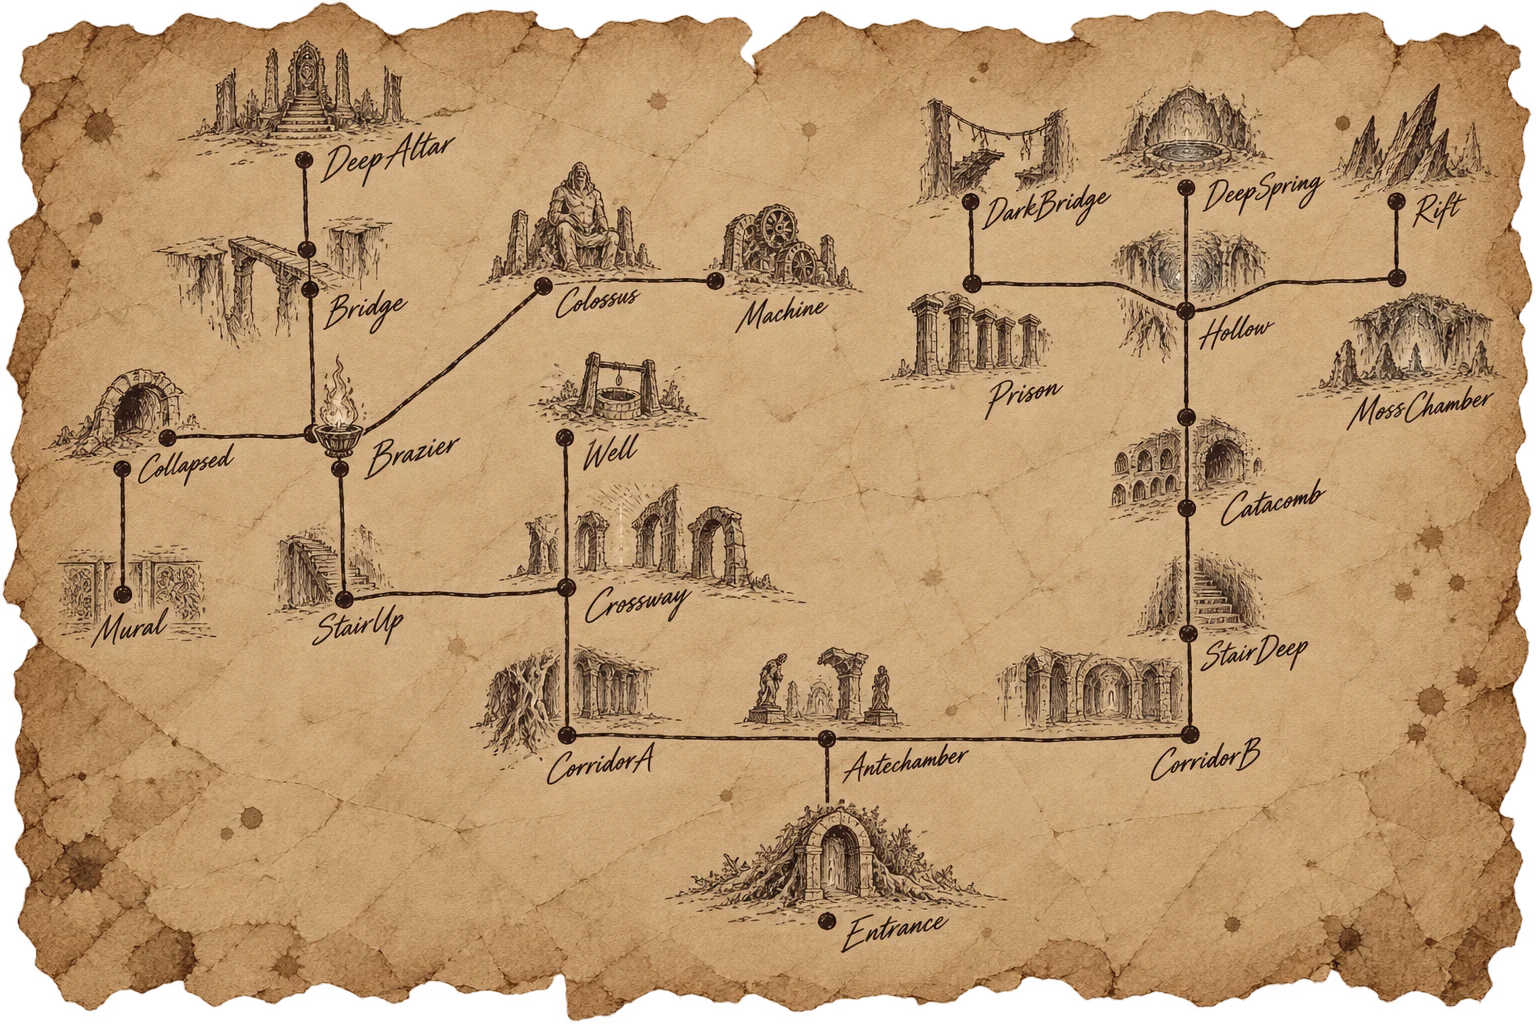
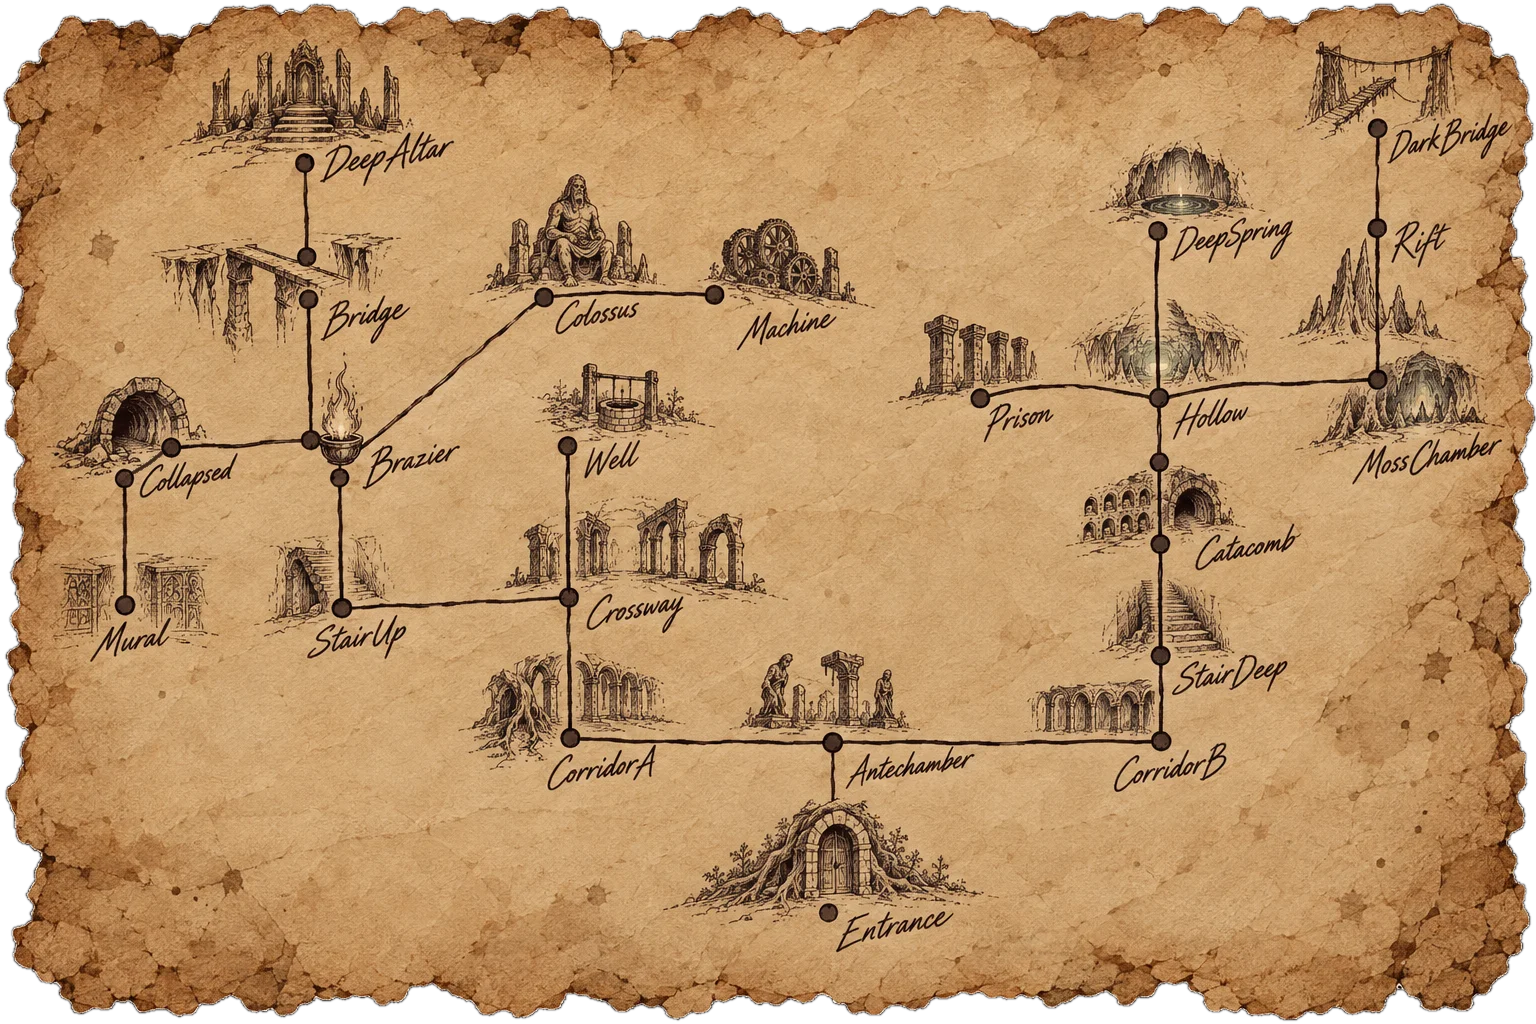
asset(map): 神殿小地圖跟上 ver -909 —— 黑暗斷橋改掛地底裂隙上
一條邊改了：Hollow—Prison—DarkBridge 拆成 Prison 末端 ＋
DarkBridge 掛在 Rift 正上方。其餘 20 條線沒動。走同一串 GPT 對話重畫，
畫風接得上；-908 那版進回收區。

交件前逐條驗過，抓到一個比孤兒墨點更嚴重的缺陷：Collapsed 的節點沒有
接上通往 Mural 的線，Mural 等於連不到任何地方。量既有墨線的粗細與顏色
補了一段 56px 的折線（darken 合成，不動既有像素）。

⚠ 這版 GPT 回的是不透明黑底（上一版自帶 alpha）—— 同一串對話同一段
提示詞，兩次輸出不一樣，去背前每次都要重新確認底色。已寫進 spec。

1536x1024 WebP q85 帶 alpha（透明 5.3%），原 PNG 進 _originals。
⚠ 程式端要把 ASSET_VER 的 map_ruins_shinier 再加一版。

diff --git a/resources/map/_map_spec.md b/resources/map/_map_spec.md
@@ -168,13 +168,30 @@ WebP q85（**帶 alpha**）→ `resources/map/`；alpha 原 PNG → `resources/_
       · 原稿：`_originals/map/map_ruins_shinier_art.png`；產線對話
         `chatgpt.com/c/6a9e5f7a-450c-83e8-a1ad-ab0f7b9c4ebd`。
       · 被退掉的兩版已進回收區（v1 一直線＋畫錯場景；v2 太細膩）。
-- [x] **`map_ruins_shinier.webp` 重畫（21 格＋Entrance，ver -908 定案拓樸）—— 已交件**
-      （2026-09-07）。舊的 18 格版已進回收區。
+- [x] **`map_ruins_shinier.webp`（21 格＋Entrance）—— 現行版是 ver -909 的拓樸**
+      （2026-09-07）。18 格版與 -908 版都已進回收區。
+      · **-909 只改一條邊**：`Hollow—Prison—DarkBridge` 拆成 **Prison 變末端**、
+        **DarkBridge 改掛在 Rift 正上方**（右半成為 Hollow—MossChamber—Rift—DarkBridge）。
+        其餘 20 條線一條沒動。末端 7 的名單換一個（Prison 進、Rift 出）。
+      · 重畫走**同一串對話**（附新的佈局圖，請它「重新畫一整張、畫風沿用上一張」），
+        畫風、紙質、撕邊、字體與速寫都接得上。
+      · ⚠ 這一版 GPT 回的是**不透明黑底**（上一版是自帶 alpha）——
+        **同一串對話、同一段提示詞，兩次的輸出不一樣**，所以去背這一步**每次都要
+        重新確認底色**，不要假設。黑底一樣走四角 flood fill（門檻 48）。
 
-      · **拓樸是 Ray 自己排的**，程式端接進 `script/town.js` 並驗過（ver -908 / 1e68a78）。
-        工單附件 `resources/map/_layout_ruins_shinier.png` ＋ `.svg`（343fc8b）——
-        **那張圖是直接從 `town.js` 的資料畫出來的**，所以與程式一定一致。
-        ⚠ 要再改圖一律以它為準，不要翻本檔上面那張作廢的 18 格表。
+      · **拓樸是 Ray 自己排的**，程式端接進 `script/town.js` 並驗過。
+
+      ⚠⚠⚠ **唯一的佈局真相是 `resources/map/_layout_shinier_ruins.png`**，
+      而它**由 `python3 tools/map_layout.py` 產出** —— 那支工具借 `jsc` 直接從
+      `script/town.js` 讀連線，所以**圖與遊戲不可能走鐘**，而且它會順便驗版面
+      （出口方向必須對得上相對位置，對不上就報錯不出圖）。
+      · **要畫圖一律先跑它、只認它。** 不要翻本檔上面那張作廢的 18 格表，
+        也不要用任何人在訊息裡手打的節點清單。
+      · 為什麼：ver -908 那張簡圖是程式端**手打**節點與邊進畫圖腳本產出的 ——
+        那等於同一個拓樸有兩個真相（鐵律 7）。Ray 每改一次就要記得兩邊都改，
+        **漏一次，美術照著畫出來的小地圖就永久錯下去，而美術端沒有辦法驗**。
+      · 舊檔名 `_layout_ruins_shinier.*` 已進回收區（注意 `ruins_shinier` 與
+        `shinier_ruins` 兩個字序都出現過，別抓錯檔）。
       · **樹狀，21 條邊、沒有環**（Ray 明確要的：他把原本兩條合攏邊斷掉）——
         **不要自己補一條讓它「看起來像地圖」**。
         末端 7：Well／Mural／DeepAltar(終點)／Machine／DarkBridge／DeepSpring／Rift。
@@ -187,6 +204,11 @@ WebP q85（**帶 alpha**）→ `resources/map/`；alpha 原 PNG → `resources/_
       · **交件前逐條驗過 21 條連線與 22 個節點的相對方位**（見下面那條自檢）。
       · 修掉一處：Prison 旁邊多了一顆**沒接線的孤兒墨點**（會被讀成一個沒有名字的房間），
         就地取鄰近乾淨羊皮紙補掉，沒有重生成。
+      · **-909 那一版修的是另一種**：`Collapsed` 的節點**沒有接上通往 `Mural` 的那條線**
+        —— 兩顆墨點之間整段是空的，Mural 等於掛在圖上、連不到任何地方。
+        補法：量既有墨線的**粗細（4px）與顏色（62,39,24）**，畫一條帶輕微彎折的
+        56px 折線，以 `darken` 合成（只讓那一小段變暗，不動任何既有像素）。
+        ⚠ **這種「斷線」比孤兒墨點更該抓**：孤兒點只是髒，斷線是**地圖說那裡走不過去**。
 
 ### ⚠⚠ 交件前的自檢：逐條核對連線與方位（2026-09-07 立）
 
